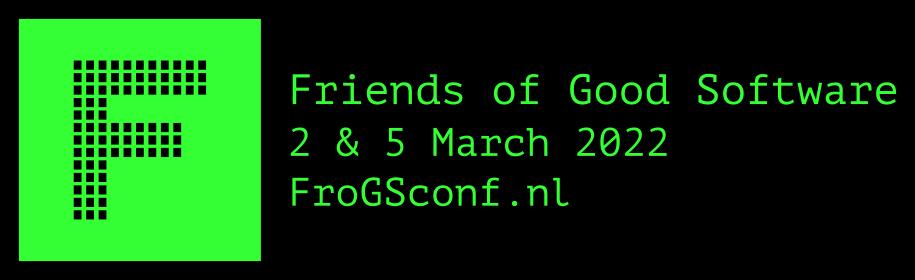
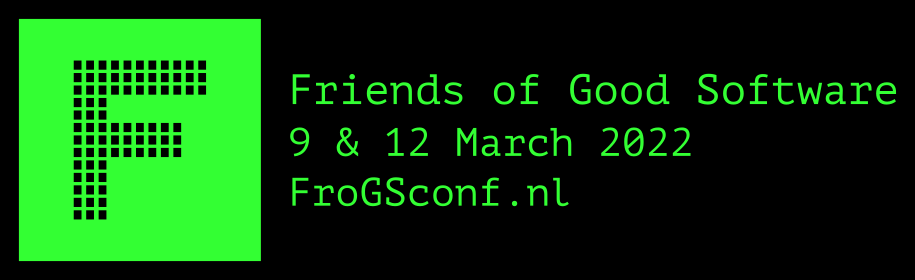
fixes dates

Changed region(s): [[0.3978, 0.4571, 0.7038, 0.5714], [0.7344, 0.4571, 0.765, 0.5714], [0.306, 0.4571, 0.3366, 0.5714]]

diff --git a/pages/schedule.md b/pages/schedule.md
@@ -11,8 +11,8 @@
 
 *All times are in Central European Time (CET), i.e. UTC+1.*
 
-### <a name="schedule-evening"></a>Wednesday 2 March 2022
-<a href="https://localschedule.netlify.app/#v2%3A%7B%22name%22%3A%22FroGS%20conf%20Wednesday%22%2C%22day%22%3A%222022-03-02%22%2C%22tz%22%3A%22Europe%2FAmsterdam%22%2C%22sessions%22%3A%7B%221930%22%3A%22Welcome%20%26%20warm-up%22%2C%221945%22%3A%22Track%201%3A%20Lean%20coffee%20%2F%2F%20Track%202%3A%20Fun%20starts%22%2C%222045%22%3A%22The%20fun%20continues%22%7D%7D" target="_blank">Schedule in your time zone</a>
+### <a name="schedule-evening"></a>Wednesday 9 March 2022
+<a href="https://localschedule.netlify.app/#v2%3A%7B%22name%22%3A%22FroGS%20conf%20Wednesday%22%2C%22day%22%3A%222022-03-09%22%2C%22tz%22%3A%22Europe%2FAmsterdam%22%2C%22sessions%22%3A%7B%221930%22%3A%22Welcome%20%26%20warm-up%22%2C%221945%22%3A%22Track%201%3A%20Lean%20coffee%20%2F%2F%20Track%202%3A%20Fun%20starts%22%2C%222045%22%3A%22The%20fun%20continues%22%7D%7D" target="_blank">Schedule in your time zone</a>
 
 <table class="table table-sm" style="max-width:600px">
   <thead class="thead-light">
@@ -42,8 +42,8 @@
 </table>
 
 
-### <a name="schedule-conference"></a>Saturday 5 March 2022
-<a href="https://localschedule.netlify.app/#v2%3A%7B%22name%22%3A%22FroGS%20conf%20Saturday%22%2C%22day%22%3A%222022-03-05%22%2C%22tz%22%3A%22Europe%2FAmsterdam%22%2C%22sessions%22%3A%7B%22830%22%3A%22Walk%20in%20%26%20Shared%20Breakfast%22%2C%22900%22%3A%22Welcome%20%26%20Instructions%22%2C%22930%22%3A%22Marketplace%20-%20Determining%20our%20sessions%22%2C%221030%22%3A%22Interactive%20sessions%20-%20Round%201%22%2C%221115%22%3A%22Break%22%2C%221130%22%3A%22Interactive%20sessions%20-%20Round%202%22%2C%221215%22%3A%22Lunch%22%2C%221315%22%3A%22Marketplace%20-%20Determining%20our%20sessions%22%2C%221345%22%3A%22Interactive%20sessions%20-%20Round%203%22%2C%221430%22%3A%22Break%22%2C%221445%22%3A%22Interactive%20sessions%20-%20Round%204%22%2C%221530%22%3A%22Break%22%2C%221545%22%3A%22Interactive%20sessions%20-%20Round%205%22%2C%221630%22%3A%22Break%22%2C%221645%22%3A%22Retrospective%20%26%20Closing%22%7D%7D" target="_blank">Schedule in your time zone</a>
+### <a name="schedule-conference"></a>Saturday 12 March 2022
+<a href="https://localschedule.netlify.app/#v2%3A%7B%22name%22%3A%22FroGS%20conf%20Saturday%22%2C%22day%22%3A%222022-03-12%22%2C%22tz%22%3A%22Europe%2FAmsterdam%22%2C%22sessions%22%3A%7B%22830%22%3A%22Walk%20in%20%26%20Shared%20Breakfast%22%2C%22900%22%3A%22Welcome%20%26%20Instructions%22%2C%22930%22%3A%22Marketplace%20-%20Determining%20our%20sessions%22%2C%221030%22%3A%22Interactive%20sessions%20-%20Round%201%22%2C%221115%22%3A%22Break%22%2C%221130%22%3A%22Interactive%20sessions%20-%20Round%202%22%2C%221215%22%3A%22Lunch%22%2C%221315%22%3A%22Marketplace%20-%20Determining%20our%20sessions%22%2C%221345%22%3A%22Interactive%20sessions%20-%20Round%203%22%2C%221430%22%3A%22Break%22%2C%221445%22%3A%22Interactive%20sessions%20-%20Round%204%22%2C%221530%22%3A%22Break%22%2C%221545%22%3A%22Interactive%20sessions%20-%20Round%205%22%2C%221630%22%3A%22Break%22%2C%221645%22%3A%22Retrospective%20%26%20Closing%22%7D%7D" target="_blank">Schedule in your time zone</a>
 
 <table class="table table-sm" style="max-width:600px">
   <thead class="thead-light">

diff --git a/pages/home.md b/pages/home.md
@@ -5,12 +5,12 @@
 .. tags: 
 .. category: 
 .. link: 
-.. description: Friends of Good Software (FroGS) open space conference - Friday 3 and Saturday 4 September 2021 (virtual edition)
+.. description: Friends of Good Software (FroGS) open space conference - Wednesday 9 and Saturday 12 March 2022 (virtual edition)
 .. type: text
 .. hidetitle: true
 -->
 
-<h1 class="align-center">Friends of Good Software<br>- Virtual Edition -<br>Wednesday 2 March (evening) and<br>Saturday 5 March 2022</h1>
+<h1 class="align-center">Friends of Good Software<br>- Virtual Edition -<br>Wednesday 9 March (evening) and<br>Saturday 12 March 2022</h1>
 
 ---
 
@@ -26,8 +26,8 @@ FroGS conf, or "Friends of Good Software conference" in full, is an unconference
 
 ### When is it?
 
-Wednesday 2 March 2022 in the evening (lean coffee, social hangout)  
-Saturday 5 March 2022 (unconference)
+Wednesday 9 March 2022 in the evening (lean coffee, social hangout)  
+Saturday 12 March 2022 (unconference)
 
 
 You can find the schedule [here](link://slug/schedule).
